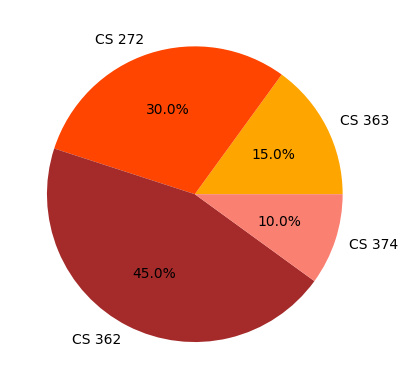
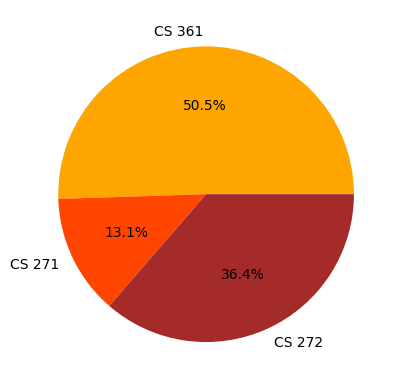
Fully Implemented Microservice C.

diff --git a/app/templates/study_graph.html b/app/templates/study_graph.html
@@ -3,23 +3,19 @@
 {% block sidebar %}
 
     <div class="row" style="background-color: #4e1f00; color: white;">
-        <h3 style="margin: auto; padding-top: 3%; padding-bottom: 2%;">HOW TO <br> EDIT STUDY HOURS</h3>
+        <h3 style="margin: auto; padding-top: 3%; padding-bottom: 2%;">HOW TO <br> ADD STUDY HOURS</h3>
     </div>
 
     <div class="row" style="border: 8px solid #4e1f00; background-color: #f0e8e0; text-align: justify;">
-        <p> <br>Edit the information you wish to change and click the <b>Save Changes</b>
-            button once you are finished to save your changes.<br><br>
+        <p> <br>Do you have an important project that's <b>due soon</b>? 
+            Or maybe finals are coming up and you <b>want to know how many days you have left to study</b>?
+            
+            Calculate how many days, weeks or months are left until a given FUTURE date. Make sure you complete all the <b>required fields</b> on the page. 
+            Click the <b>Submit</b> button once you are finished.<br><br>
 
-
-            The Class Name and Comment fields are <b><i>OPTIONAL</i></b>.<br><br>
-
-            Completing the <b>Class Name</b> field will allow you to categorize your entries 
-            per class that you are taking. On the other hand, removing the class name will 
-            cause the entry to no longer appear when filtering the Study Log for that class.<br><br>
-
-
-            <i>Don't see the name of one of your classes? Head over to the "All Classes" menu to
-            add the class.</i>
+            <i>The "Combo" option will return a string with how many months, weeks and days are left. This is best used when
+                your future date is more than three months away.
+            </i>
         </p>
     </div>
     
@@ -29,34 +25,57 @@
 {% block content %}
 
     <div class="row" style="background-color: #4e1f00; color: white; ">
-        <h1 style="margin: auto; padding-top: 1%; padding-bottom: 1%;">{% block title %}Total Study Hour Calculator{% endblock %}</h1>
+        <h1 style="margin: auto; padding-top: 1%; padding-bottom: 1%;">{% block title %} View Study Graph{% endblock %}</h1>
         </div>
     <div class="row" style="border: 8px solid #4e1f00; background-color: #f0e8e0;">
         <p></p>
-            <h1>Keep Learning Maths!</h1>
-            <h2>Total Hours is : {{totalhrs}}</h2>
+        <!-- <img src="images/received_graph.png"> -->
+        <center>
+        <img src="{{ url_for('static',filename='images/received_graph.png') }}" style="max-width: 500px;">
+        </center>
+    <form method="POST" action="/study_graph">
+        <div class="row align-items-center">
+            <div class="col-1"></div>
+            <div class="col">
+                <label for="number"><b>FILTER GRAPH<br> BY CLASSES :<b style="color: red">*</b></b></label>
+            </div>
 
-            <br><br>
-
-            <form method="POST" action="/total_hrs">
-            <a href="{{ url_for('calculate_total_hrs') }}">
-                <button type="submit" name="classname_val" value="" class="btn btn-dark">
-                    All Classes
-                </button>
-            </a>
-
-            {% for classname in classnames %}
-            <a href="{{ url_for('calculate_total_hrs', class_name=classname) }}">
-                <button type="submit" name="classname_val" value="{{ classname }}" class="btn btn-dark">
+            <div class="col">
+                {% for classname in classnames %}
+                <div class="form-check">
+                    <input class="form-check-input" name="{{ classname }}" value="{{ classname }}" type="checkbox" id="flexCheckChecked" checked>
+                    <label class="form-check-label" for="flexCheckChecked">
                     {{ classname }}
-                </button>
-            </a>
-            {% endfor %}
-            </form>
+                    </label>
+                </div>
+                {% endfor %}
+            </div>
+            <div class="col-2"></div>
+        </div>
 
-            <br><br>
+        <div class="row">
+                <div class="col"><p><!-- space --></p></div>
+        </div>
 
-        <p></p>
+        <div class="row align-items-center">
+            <div class="col-1"></div>
+
+
+
+            <div class="col-2"></div>
+        </div>
+
+        <div class="row">
+                <div class="col"><p><!-- space --></p></div>
+        </div>
+
+
+
+
+        <p style="color: red">*You must select at least TWO (2) classes.</p>
+        <br>
+        <button type="submit" class="btn btn-dark btn-lg" style="margin-bottom: 5%;">SUBMIT</button>
+    </form>
     </div>
     <div class="row"><p></p></div>
     <div class="row align-items-center">
@@ -68,14 +87,6 @@
             </a>
         </div>
 
-        <div class="col">
-            <a href="/view_classes">
-                <button type="button btn" class="btn btn-secondary">
-                    MY CLASSES
-                </button>
-            </a>
-        </div>
     </div>
 
 {% endblock %}
-

diff --git a/app/templates/countdown.html b/app/templates/countdown.html
@@ -3,22 +3,19 @@
 {% block sidebar %}
 
     <div class="row" style="background-color: #4e1f00; color: white;">
-        <h3 style="margin: auto; padding-top: 3%; padding-bottom: 2%;">HOW TO <br> ADD STUDY HOURS</h3>
+        <h3 style="margin: auto; padding-top: 3%; padding-bottom: 2%;">HOW TO USE</h3>
     </div>
 
     <div class="row" style="border: 8px solid #4e1f00; background-color: #f0e8e0; text-align: justify;">
-        <p> <br>Add hours to your <b>Study Log</b> by completing all the <b>required fields</b> on the page. 
+        <p> <br>Do you have an important project that's <b>due soon</b>? 
+            Or maybe finals are coming up and you <b>want to know how many days you have left to study</b>?
+            <br><br>
+            Calculate how many days, weeks or months are left until a given <b>FUTURE</b> date. Make sure you complete all the <b>required fields</b> on the page. 
             Click the <b>Submit</b> button once you are finished.<br><br>
 
-
-            The Class Name and Comment fields are <b><i>OPTIONAL</i></b>.<br><br>
-
-            Completing the <b>Class Name</b> field will allow you to categorize your entries 
-            per class that you are taking.<br><br>
-
-
-            <i>Don't see the name of one of your classes? Head over to the "All Classes" menu to
-            add the class.</i>
+            <i>The "Combo" option will return a string with how many months, weeks and days are left. This is best used when
+                your future date is more than three months away.
+            </i>
         </p>
     </div>
     
@@ -28,7 +25,7 @@
 {% block content %}
 
     <div class="row" style="background-color: #4e1f00; color: white; ">
-        <h1 style="margin: auto; padding-top: 1%; padding-bottom: 1%;">{% block title %} Countdown Calculator{% endblock %}</h1>
+        <h1 style="margin: auto; padding-top: 1%; padding-bottom: 1%;">{% block title %} COUNTDOWN CALCULATOR{% endblock %}</h1>
         </div>
     <div class="row" style="border: 8px solid #4e1f00; background-color: #f0e8e0;">
         <p></p>
@@ -93,13 +90,7 @@
             </a>
         </div>
 
-        <div class="col">
-            <a href="/view_classes">
-                <button type="button btn" class="btn btn-secondary">
-                    MY CLASSES
-                </button>
-            </a>
-        </div>
+        
     </div>
 
 {% endblock %}

diff --git a/app/templates/total_hrs.html b/app/templates/total_hrs.html
@@ -3,7 +3,7 @@
 {% block sidebar %}
 
     <div class="row" style="background-color: #4e1f00; color: white;">
-        <h3 style="margin: auto; padding-top: 3%; padding-bottom: 2%;">HOW TO <br> EDIT STUDY HOURS</h3>
+        <h3 style="margin: auto; padding-top: 3%; padding-bottom: 2%;">HOW TO USE</h3>
     </div>
 
     <div class="row" style="border: 8px solid #4e1f00; background-color: #f0e8e0; text-align: justify;">
@@ -29,19 +29,16 @@
 {% block content %}
 
     <div class="row" style="background-color: #4e1f00; color: white; ">
-        <h1 style="margin: auto; padding-top: 1%; padding-bottom: 1%;">{% block title %}Total Study Hour Calculator{% endblock %}</h1>
+        <h1 style="margin: auto; padding-top: 1%; padding-bottom: 1%;">{% block title %}TOTAL STUDY HOURS CALCULATOR{% endblock %}</h1>
         </div>
     <div class="row" style="border: 8px solid #4e1f00; background-color: #f0e8e0;">
         <p></p>
-            <h1>Keep Learning Maths!</h1>
-            <h2>Total Hours is : {{totalhrs}}</h2>
-
-            <br><br>
-
+            <br>
+            <h4>Select which class you'd like to <br>view your total study hours for:</h4>
             <form method="POST" action="/total_hrs">
             <a href="{{ url_for('calculate_total_hrs') }}">
                 <button type="submit" name="classname_val" value="" class="btn btn-dark">
-                    All Classes
+                    ALL CLASSES
                 </button>
             </a>
 
@@ -54,7 +51,9 @@
             {% endfor %}
             </form>
 
-            <br><br>
+            <br><br><br>
+            <h2>You have spent a total of {{totalhrs}} hours studying for {{ classname_val }}.</h2>
+            <br><br><br>
 
         <p></p>
     </div>
@@ -64,14 +63,6 @@
             <a href="/index">
                 <button type="button btn" class="btn btn-secondary">
                     RETURN TO HOME PAGE
-                </button>
-            </a>
-        </div>
-
-        <div class="col">
-            <a href="/view_classes">
-                <button type="button btn" class="btn btn-secondary">
-                    MY CLASSES
                 </button>
             </a>
         </div>

diff --git a/app/templates/base.html b/app/templates/base.html
@@ -23,6 +23,7 @@
         <!-- BLOCK CONTENT REFERS TO THE PAGE CONTENT -->
         <div class="container text-center" style="padding-top: 1%;">
 
+            <!-- navigation bar block -->
             <div class="row">
                 <div class="col"><p><!-- space --></p></div>
             </div>
@@ -45,7 +46,7 @@
                     <div class="col" id="">           
                         <a href="/index">
                             <button type="button" class="btn btn-dark">
-                                HOME
+                                VIEW STUDY LOG
                             </button>
                         </a>
 

diff --git a/app/templates/edit_hours.html b/app/templates/edit_hours.html
@@ -114,14 +114,6 @@
                 </button>
             </a>
         </div>
-
-        <div class="col">
-            <a href="/view_classes">
-                <button type="button btn" class="btn btn-secondary">
-                    MY CLASSES
-                </button>
-            </a>
-        </div>
     </div>
 
 {% endblock %}

diff --git a/app/templates/submit_hours.html b/app/templates/submit_hours.html
@@ -112,14 +112,6 @@
                 </button>
             </a>
         </div>
-
-        <div class="col">
-            <a href="/view_classes">
-                <button type="button btn" class="btn btn-secondary">
-                    MY CLASSES
-                </button>
-            </a>
-        </div>
     </div>
 
 {% endblock %}

diff --git a/app/__init__.py b/app/__init__.py
@@ -196,16 +196,64 @@ def calculate_total_hrs():
 # Microservice C
 @app.route('/study_graph', methods=('GET', 'POST'))
 def generate_graph():
+    graph_info_dict = {}
+
+    classnames = StudyLog.query.with_entities(StudyLog.classname).distinct().all()
+    classnames_list = [classname[0] for classname in classnames]
+
+    if request.method == 'POST':
+        selected_classes = []
+        for key, value in request.form.items():
+            selected_classes.append(key)
+        print(selected_classes)
+
+        # if len(log_classname) == 0:
+        #     study_hours = StudyLog.query.with_entities(StudyLog.studyhours).all()
+        #     study_hours_list = [studyhours[0] for studyhours in study_hours]
+        
+        for selected_class in selected_classes:
+
+            study_hours = StudyLog.query.filter_by(classname=selected_class).with_entities(StudyLog.studyhours).all()
+            study_hours_list = [studyhours[0] for studyhours in study_hours]
+
+            for i, study_hours in enumerate(study_hours_list):
+                study_hours_list[i] = str(study_hours)
+
+            data = {'total_hrs': study_hours_list}
+            response = requests.post('http://127.0.0.1:7000/calculate_hrs', json=data)
+
+            response_data = response.json()
+            total_hrs = response_data["total_hr_sum"]
+
+            graph_info_dict[selected_class] = str(total_hrs)
+
+    else:
+        for selected_class in classnames_list:
+
+            study_hours = StudyLog.query.filter_by(classname=selected_class).with_entities(StudyLog.studyhours).all()
+            study_hours_list = [studyhours[0] for studyhours in study_hours]
+
+            for i, study_hours in enumerate(study_hours_list):
+                study_hours_list[i] = str(study_hours)
+
+            data = {'total_hrs': study_hours_list}
+            response = requests.post('http://127.0.0.1:7000/calculate_hrs', json=data)
+
+            response_data = response.json()
+            total_hrs = response_data["total_hr_sum"]
+
+            graph_info_dict[selected_class] = str(total_hrs)
+
     print("Sending Study Graph Request to Microservice C...")
-    response = requests.post('http://127.0.0.1:8000/view_graph')
+    response = requests.post('http://127.0.0.1:8000/view_graph', json=graph_info_dict)
 
     if response.status_code == 200:
-        with open("received_graph.png", "wb") as f:
+        with open(r"app\static\images\received_graph.png", "wb") as f:
             f.write(response.content)
         print("Received Study Graph from Microservice C and saved as received_graph.png")
     else:
         print(f"Error: {response.status_code}")
-    return render_template('study_graph.html')
+    return render_template('study_graph.html', classnames=classnames_list)
 
 
 

diff --git a/studytracker.py b/studytracker.py
@@ -1,4 +1,1 @@
 from app import app
-
-UPLOAD_FOLDER = 'study_graphs'  # Directory to save uploaded images
-app.config['UPLOAD_FOLDER'] = UPLOAD_FOLDER
